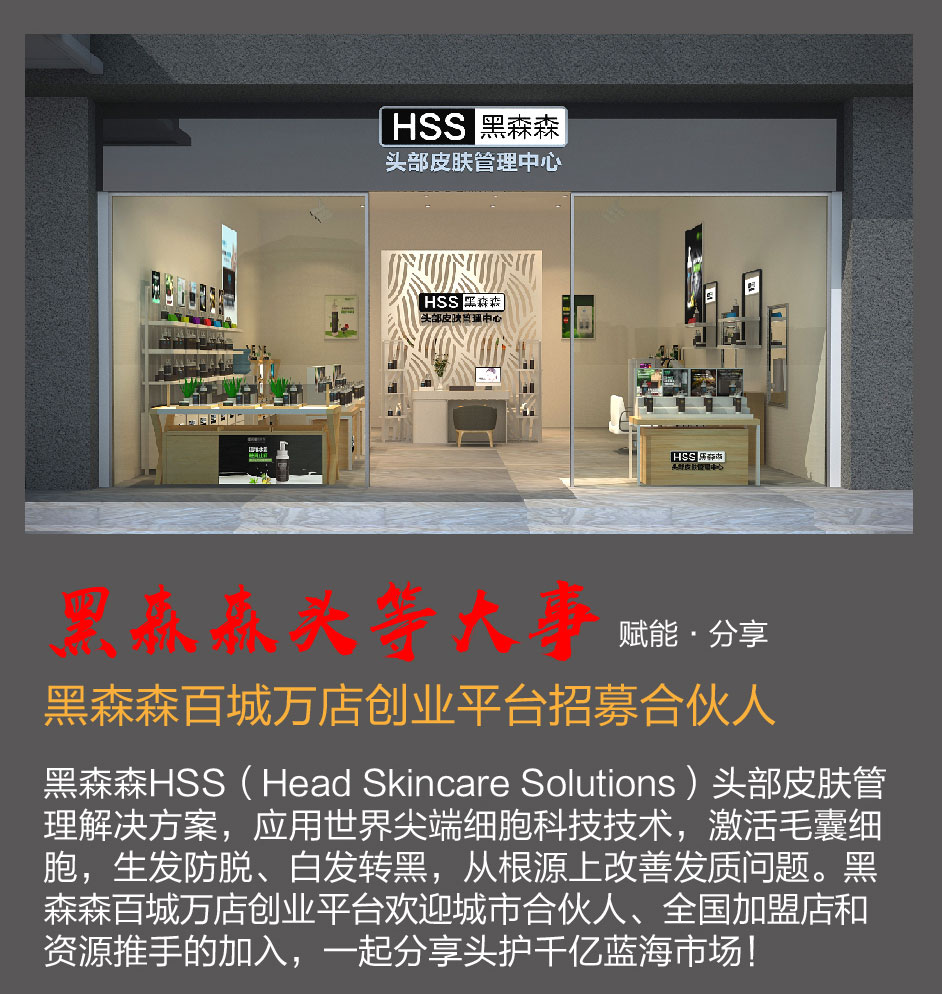
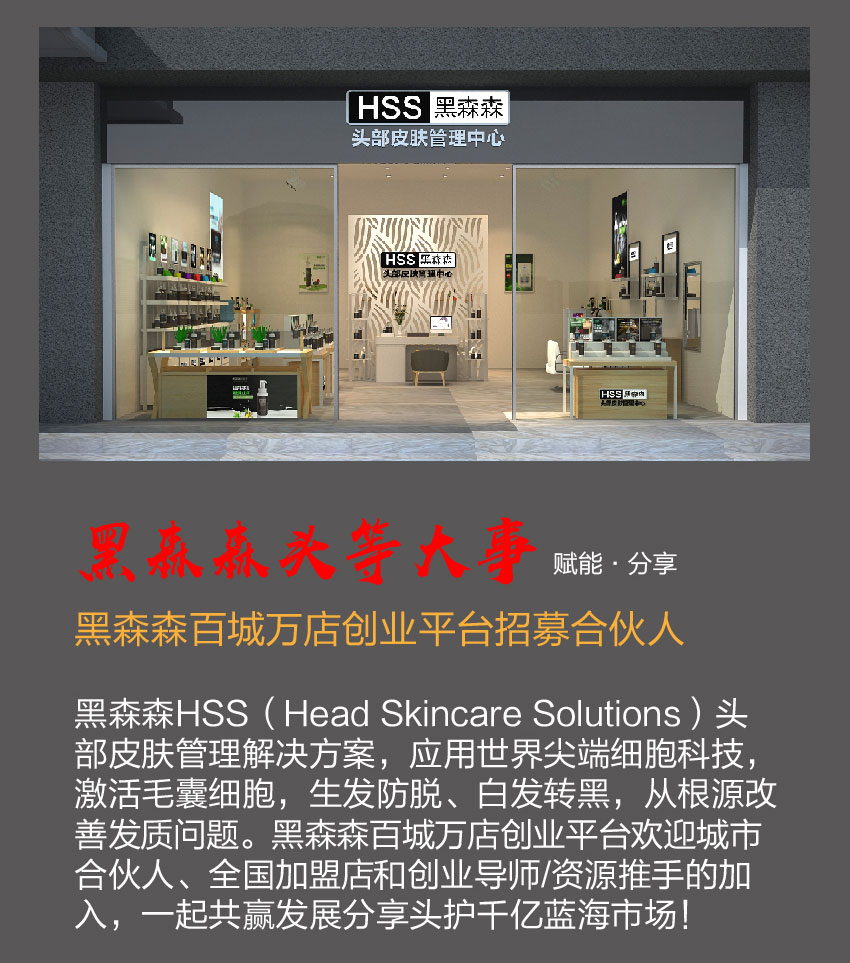
'ygb'

diff --git a/thinkphp5.1/hss/application/index/model/TwoDimensionalCode.php b/thinkphp5.1/hss/application/index/model/TwoDimensionalCode.php
@@ -90,15 +90,15 @@ class TwoDimensionalCode extends \common\model\Base {
         if( !$avatar || !$hss_1 || !$qrcode || !$hss_2 || !$hss_3){
             return errorMsg('提供的图片问题');
         }
-        $im = imagecreatetruecolor(942, 1475);  //图片大小
+        $im = imagecreatetruecolor(850, 1511);  //图片大小
         $gray_color = imagecolorallocate($im, 87,89,88);
         $text_color = imagecolorallocate($im, 255, 255, 255);
         imagefill($im, 0, 0, $gray_color);
         imagettftext($im, 25, 0, 200, 90, $text_color, $init['font'], $init['name']); //名字
         imagecopyresized($im, $avatar['obj'], 60, 50, 0, 0, 100, 100, $avatar['width'], $avatar['height'] );  //
-        imagecopyresized($im, $hss_1['obj'], 180, 110, 0, 0, 744, 66, $hss_1['width'],$hss_1['height'] );  //平台logo
-        imagecopyresized($im, $hss_2['obj'], 0, 200, 0, 0, 942, 944, $hss_2['width'],$hss_2['height'] );  //平台logo
-        imagecopyresized($im, $hss_3['obj'], 0, 1150, 0, 0, 563, 309, $hss_3['width'],$hss_3['height'] );  //平台logo
+        imagecopyresized($im, $hss_1['obj'], 180, 110, 0, 0, 662, 82, $hss_1['width'],$hss_1['height'] );  //平台logo
+        imagecopyresized($im, $hss_2['obj'], 0, 200, 0, 0, 850, 963, $hss_2['width'],$hss_2['height'] );  //平台logo
+        imagecopyresized($im, $hss_3['obj'], 0, 1150, 0, 0, 538, 320, $hss_3['width'],$hss_3['height'] );  //平台logo
         imagecopyresized($im, $qrcode['obj'], 600, 1200, 0, 0, 200, 200, $qrcode['width'], $qrcode['width'] );  //二维
         $dir = config('upload_dir.upload_path').'/'.$init['save_path'];
         if(!is_dir($dir)){
